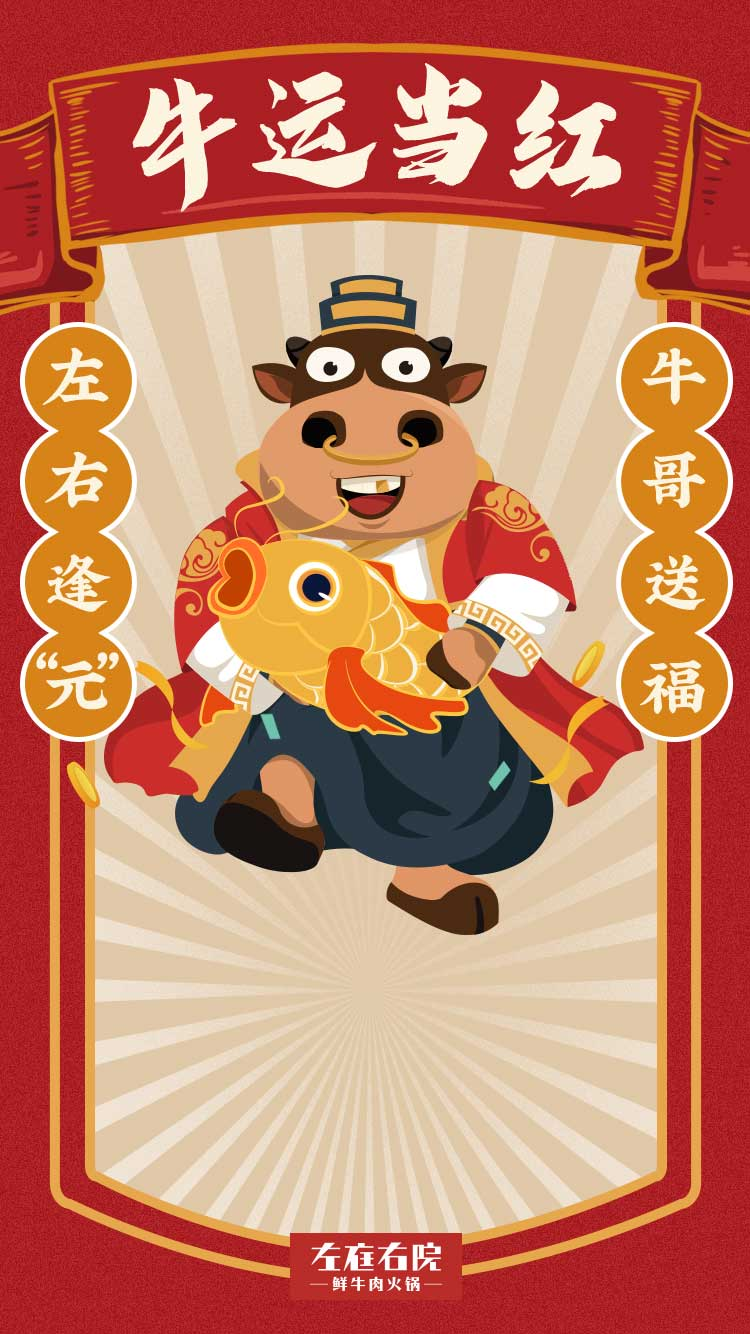
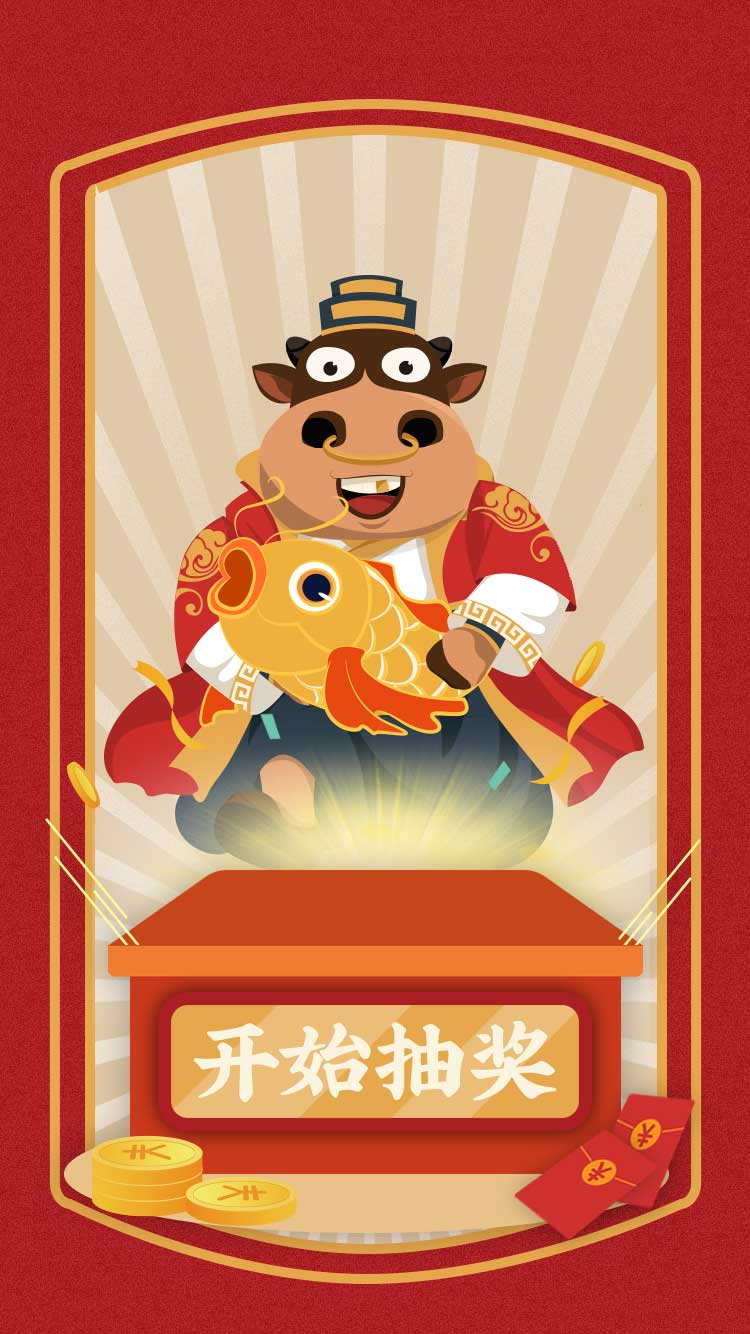
更新动画效果

diff --git a/左庭右院_抽奖/index.html b/左庭右院_抽奖/index.html
@@ -28,7 +28,12 @@
     <div class="main page1">
       <img src="img/bg.jpg" />
       <div class="pos jq-start">
-        <img src="img/bg_guo.png" class="pos ani ani-guo" />
+        <img src="img/home_hf.png" class="pos ani ani-hf" />
+        <img src="img/home_dl1.png" class="pos ani ani-dl" />
+        <img src="img/home_dl2.png" class="pos ani ani-dl" />
+        <img src="img/home_cai1.png" class="pos ani ani-cai1" />
+        <img src="img/home_cai2.png" class="pos ani ani-cai2" />
+        <img src="img/home_guo.png" class="pos" />
         <img src="img/red1.png" class="pos ani ani-red" />
         <img src="img/red2.png" class="pos ani ani-red" />
         <a href="javascript:;" class="pos btn-start"></a>
@@ -86,9 +91,11 @@
       <img src="img/change2.png" />
       <div class="pos">
         <a href="javascript:;" class="pos btn-exchange-close"></a>
+        <span class="pos txt-source">可用积分：<span>0</span></span>
         <a href="javascript:;" class="pos btn-add"></a>
         <a href="javascript:;" class="pos btn-less"></a>
         <a href="javascript:;" class="pos txt-exchange">0</a>
+        <span class="pos txt-pay">合计：<span>0</span>积分</span>
         <a href="javascript:;" class="pos btn-exchange"></a>
       </div>
     </div>
@@ -148,20 +155,24 @@
     let gameStar = false
     let changeNum = 0
     /** 点击抽奖牌 */
-    $('.games img').click(()=> {
+    $('.games img').click(function() {
+      let that = this
       if(!gameStar) {
         alert('请先点击开始抽奖按钮')
         return false
       }
       muGet(config.lottery, res => {
-        if(res.name != '谢谢惠顾') {
-          $('.mask-award-prize').empty()
-          $(`<img src="img/part/${prizeImgList[res.name]}">`).appendTo('.mask-award-prize')
-          $('.mask-award-txt').text(res.name)
-          $('.mask-award').show()
-        }else {
-          $('.mask-fail').show()
-        }
+        $(that).addClass('fazhuan')
+        setTimeout(()=> {
+          if(res.name != '谢谢惠顾') {
+            $('.mask-award-prize').empty()
+            $(`<img src="img/part/${prizeImgList[res.name]}">`).appendTo('.mask-award-prize')
+            $('.mask-award-txt').text(res.name)
+            $('.mask-award').show()
+          }else {
+            $('.mask-fail').show()
+          }
+        }, 300)
         gameStar = false
       })
     })
@@ -171,6 +182,7 @@
       changeNum += 1
       if(changeNum >= 5) changeNum = 5
       $('.txt-exchange').text(changeNum)
+      $('.txt-pay span').text(changeNum)
     })
 
     /** 点击抽奖券兑换减少按钮 */
@@ -178,6 +190,7 @@
       changeNum -= 1
       if(changeNum <= 0) changeNum = 0
       $('.txt-exchange').text(changeNum)
+      $('.txt-pay span').text(changeNum)
     })
 
     /** 点击兑换按钮 */

diff --git a/左庭右院_抽奖/css/style.css b/左庭右院_抽奖/css/style.css
@@ -254,13 +254,13 @@ body {
   margin: 10px 5px;
 }
 .btn-game {
-  top: 75%;
+  top: 74%;
   left: 21%;
   width: 58%;
   height: 10%;
 }
 .btn-source {
-  top: 91%;
+  top: 88.2%;
   left: 33%;
   width: 34%;
   height: 3%;
@@ -469,13 +469,13 @@ body {
 .btn-btn3 {
   width: 41%;
   height: 2.5%;
-  top: 94%;
+  top: 91%;
   left: 31%;
 }
 .btn-btn4 {
   width: 11%;
   height: 5%;
-  top: 92%;
+  top: 89%;
   left: 86%;
 }
 .btn-add {
@@ -516,6 +516,25 @@ body {
   color: #fff;
   text-align: center;
   line-height: 2;
+}
+.txt-source {
+  width: 100%;
+  height: 4%;
+  top: 22%;
+  left: 0%;
+  color: #fff;
+  text-align: center;
+  line-height: 2;
+}
+.txt-pay {
+  width: 30%;
+  height: 4%;
+  top: 52%;
+  left: 60%;
+  color: #fff;
+  text-align: center;
+  line-height: 2;
+  font-size: 18px;
 }
 .pos-phone .ipt-phone {
   width: 44%;
@@ -641,13 +660,38 @@ body {
 .ani-red {
   -webkit-animation-name: "ani-red";
   -webkit-animation-duration: 1.5s;
+  -webkit-animation-delay: 1.1s;
   -webkit-animation-iteration-count: 1;
 }
-.ani-guo {
-  -webkit-animation-name: "ani-guo";
+.ani-cai1 {
+  -webkit-animation-name: "ani-cai";
   -webkit-animation-duration: 0.6s;
-  -webkit-animation-delay: 1.6s;
+  -webkit-animation-delay: 2.3s;
   -webkit-animation-iteration-count: 1;
+}
+.ani-cai2 {
+  -webkit-animation-name: "ani-cai";
+  -webkit-animation-duration: 0.6s;
+  -webkit-animation-delay: 2.6s;
+  -webkit-animation-iteration-count: 1;
+}
+.ani-hf {
+  -webkit-animation-name: "ani-dl";
+  -webkit-animation-duration: 0.8s;
+  -webkit-animation-iteration-count: 1;
+}
+.ani-dl {
+  -webkit-animation-name: "ani-dl";
+  -webkit-animation-duration: 0.8s;
+  -webkit-animation-delay: 0.3s;
+  -webkit-animation-iteration-count: 1;
+}
+
+.fazhuan {
+  transform-style: preserve-3d;
+  perspective: 1000;
+  transform: rotateY(180deg);
+  transition: 0.8s;
 }
 
 @keyframes ani-red {
@@ -668,7 +712,7 @@ body {
   }
 }
 
-@keyframes ani-guo {
+@keyframes ani-cai {
   0% {
     top: 0;
     -webkit-transform: scale(1);
@@ -678,6 +722,17 @@ body {
     top: -30px;
     -webkit-transform: scale(1.1);
     transform: rotate(1.1);
+  }
+}
+
+@keyframes ani-dl {
+  0% {
+    top: 100%;
+    opacity: 0.1;
+  }
+  100% {
+    top: 0;
+    opacity: 1;
   }
 }
 

diff --git a/左庭右院_抽奖/js/main.js b/左庭右院_抽奖/js/main.js
@@ -29,7 +29,7 @@ function getInfo() {
     $('.btn-source span').text(res)
   })
   muGet(config.source, res => {
-    // 不用显示积分
+    $('.txt-source span').text(res)
   })
 }
 
